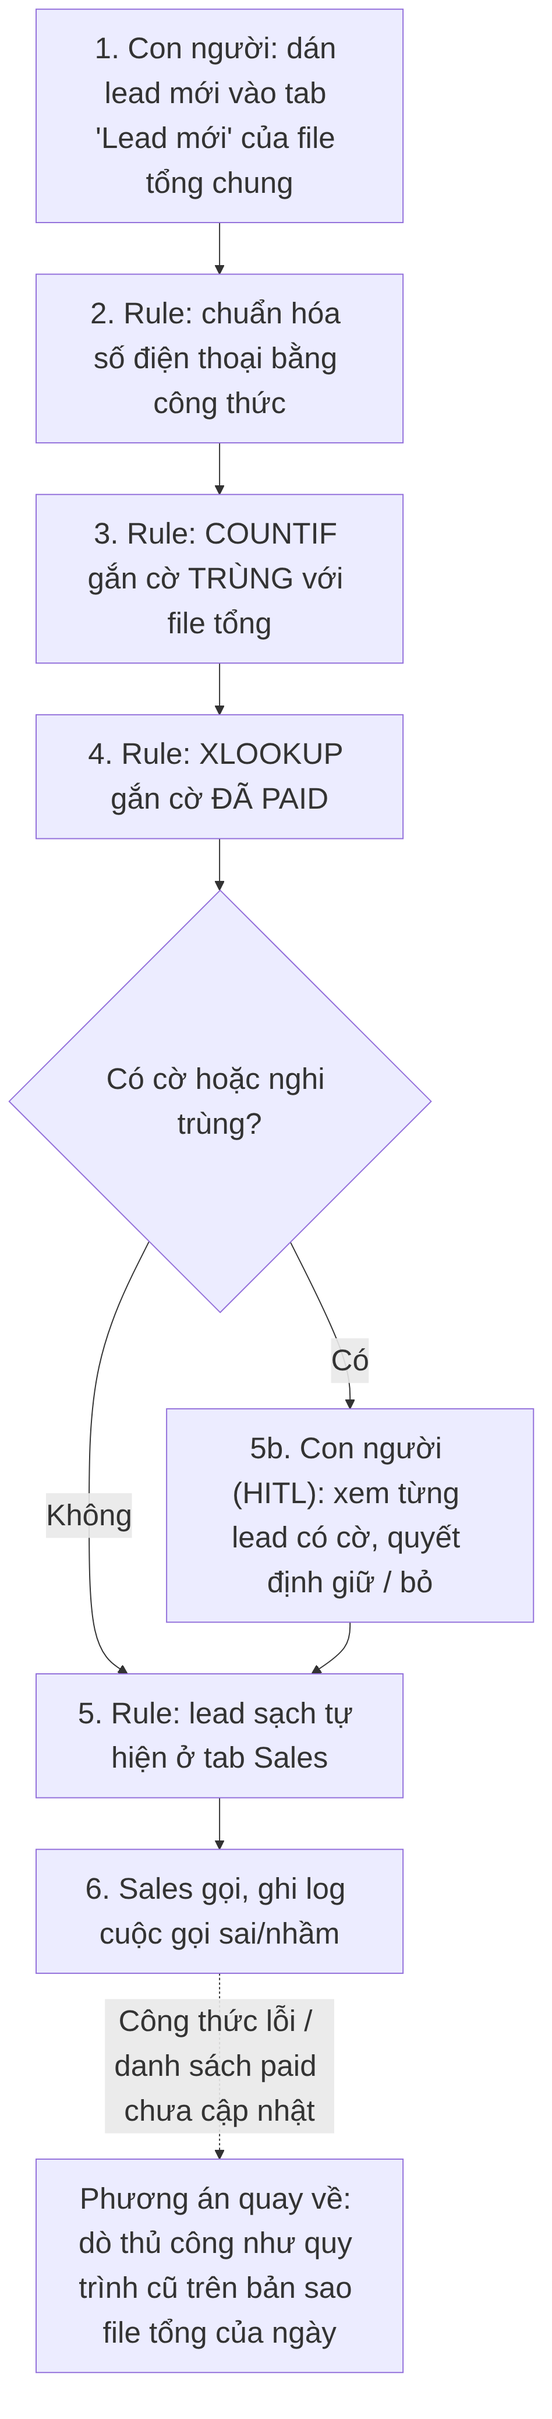
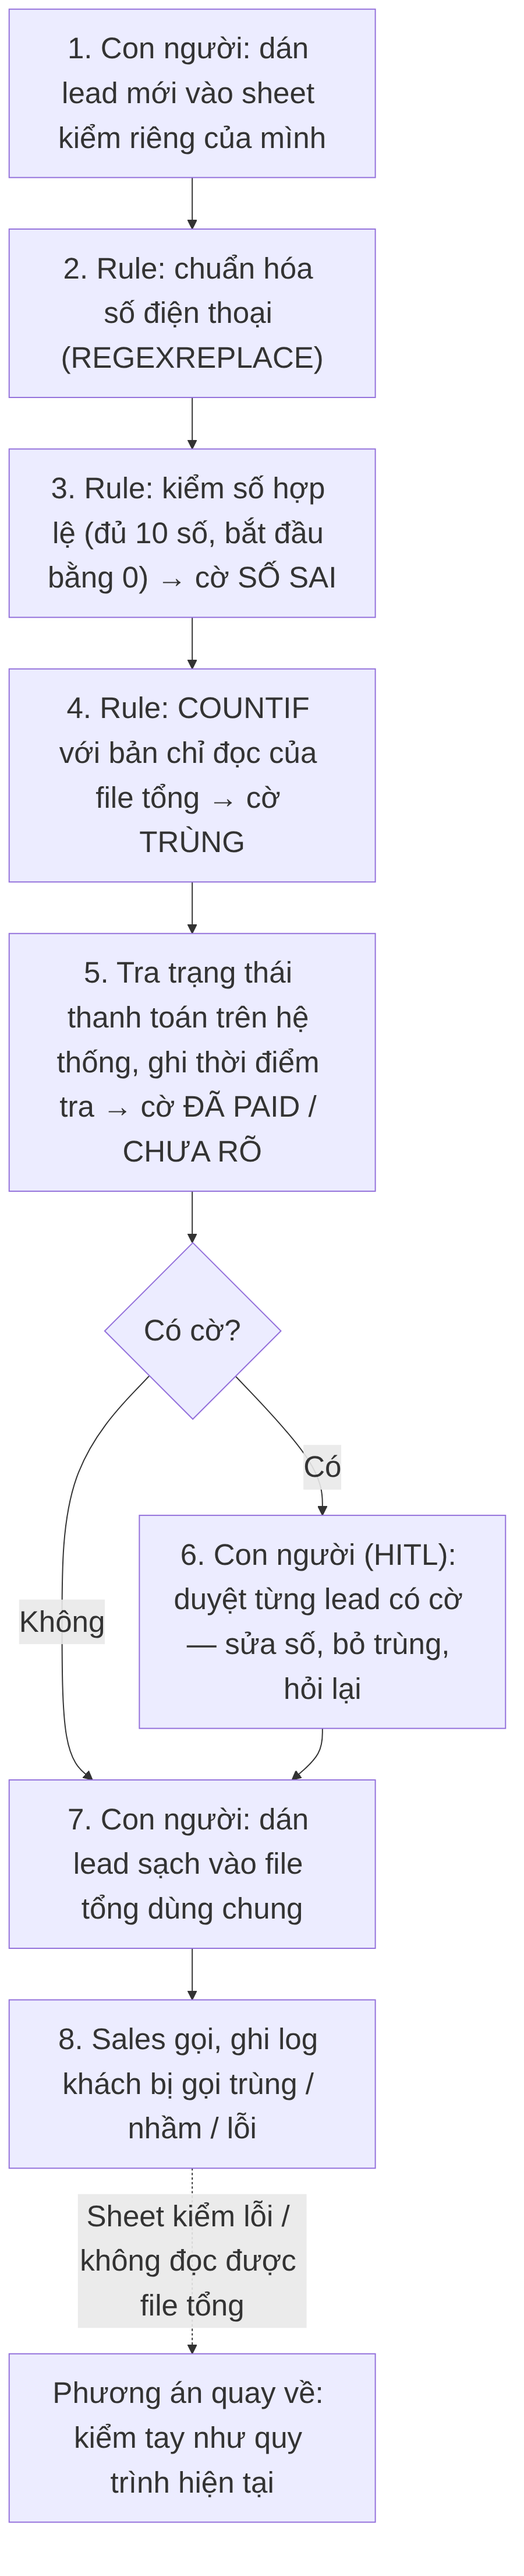
fix: change personal report and workflow image

diff --git a/report/team/group_report.md b/report/team/group_report.md
@@ -251,7 +251,6 @@ Phản biện từ AI (Claude), prompt: "chỉ ra lỗ hổng của Problem Stat
 |   4 | Quy mô nhỏ (10–50 lead/ngày, 20–50 phút/ngày): có thể chỉ cần No AI (một quy định nhập số chuẩn + tìm kiếm trong file tổng) là đủ, chưa chắc cần Rule                         | Đồng ý một phần       | Chưa đổi v0; đưa vào so sánh No AI và Rule ở CP6. Giữ Rule vì cả 2 người phỏng vấn vẫn để lọt lỗi dù đang kiểm tay    |
 |   5 | Sheet kiểm đọc bản file tổng có thể bị trễ, lead người khác vừa thêm sẽ không bị gắn cờ trùng                                                                                 | Đồng ý                | Đã ghi ở mục 4.3 (rủi ro mới): làm mới sheet kiểm ngay trước khi dán lead vào file tổng                               |
 
----
 
 ---
 
